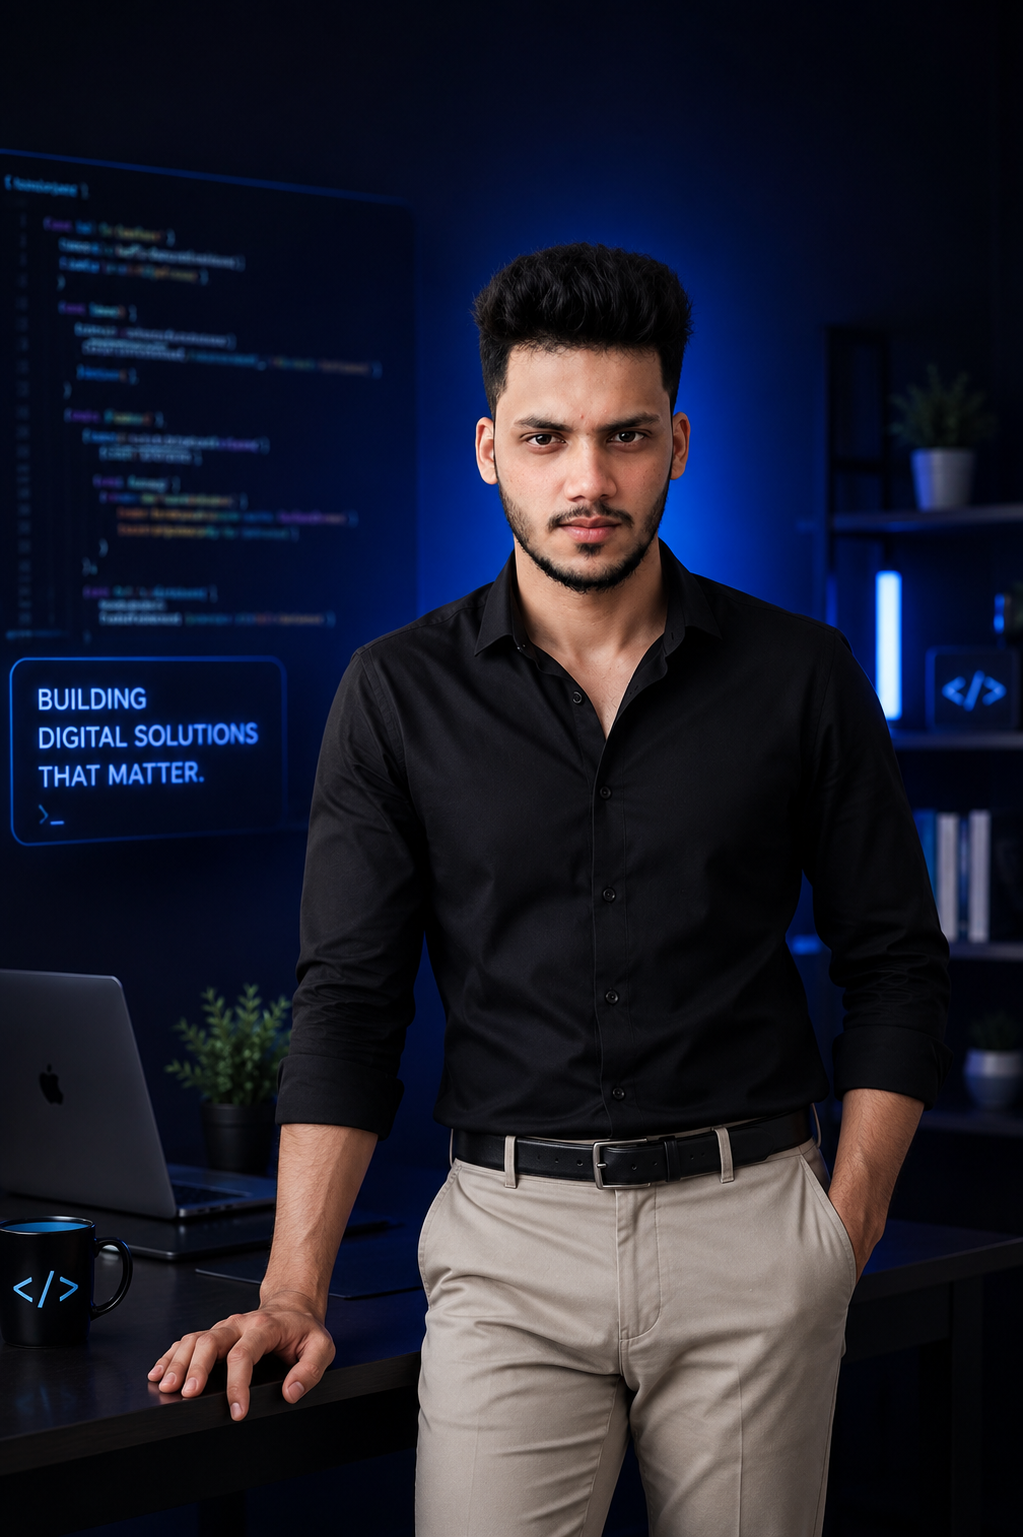
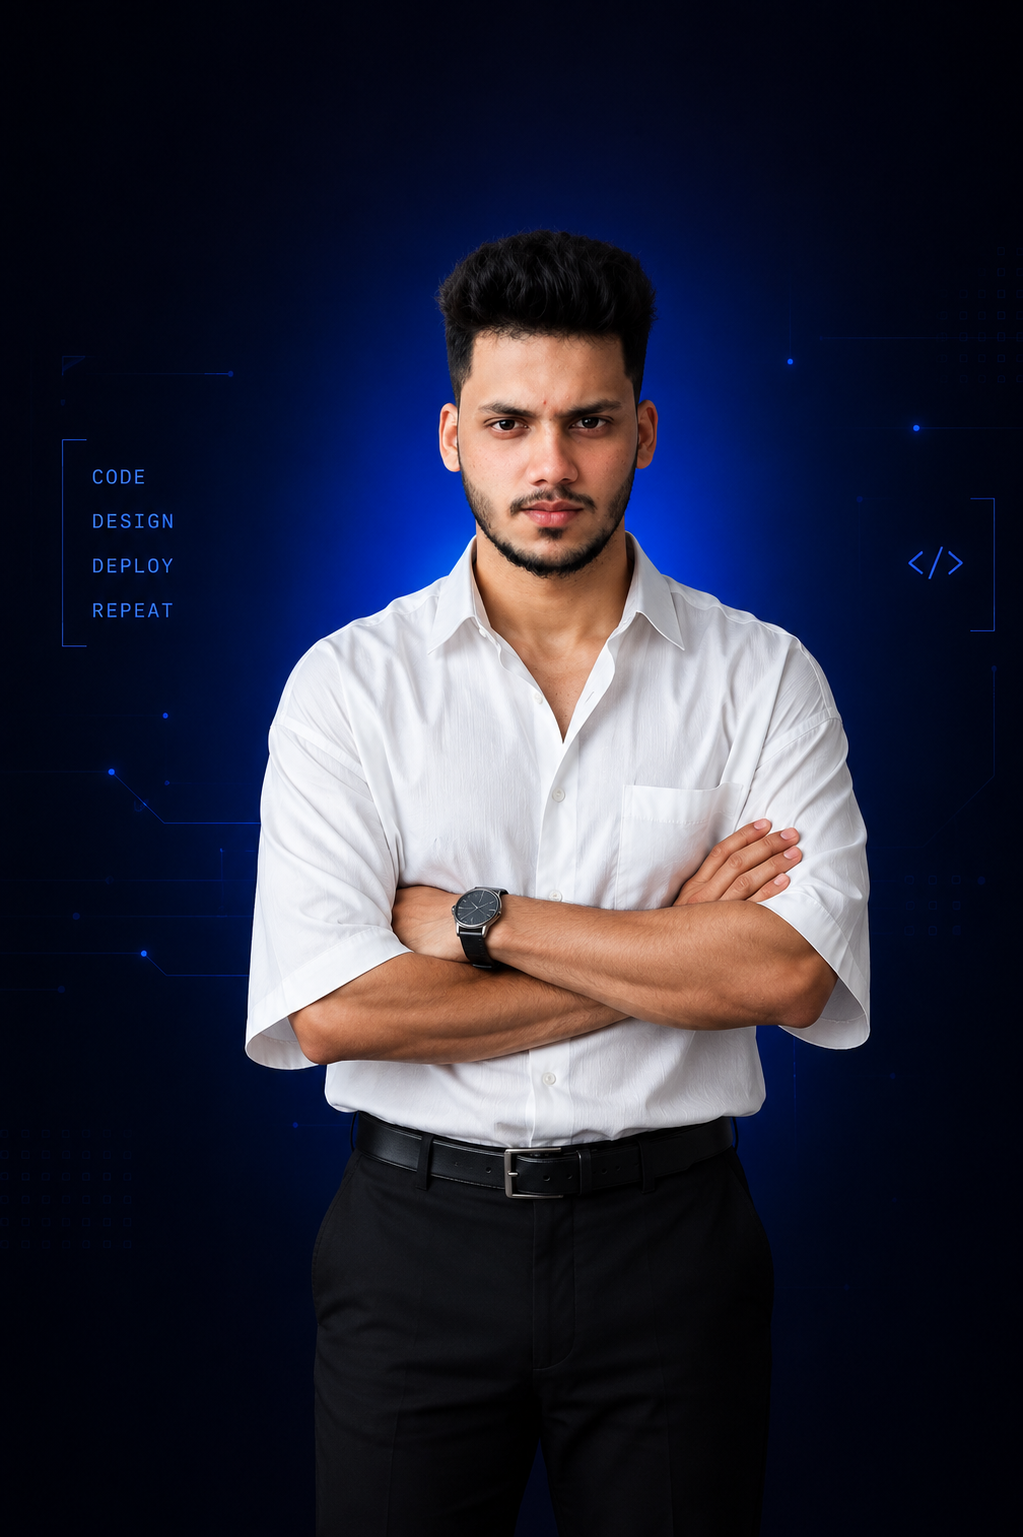
style: remove footer social links and make it compact and centered

diff --git a/client/src/components/Footer.tsx b/client/src/components/Footer.tsx
@@ -1,48 +1,12 @@
-import { Github, Linkedin, Mail, Instagram } from "lucide-react";
-
 export function Footer() {
   const currentYear = new Date().getFullYear();
 
   return (
-    <footer className="py-8 border-t border-white/5 bg-background/50 backdrop-blur-sm relative z-10">
-      <div className="container mx-auto px-6 flex flex-col md:flex-row justify-between items-center gap-4">
-        <p className="text-sm text-muted-foreground font-mono">
+    <footer className="py-6 border-t border-white/5 bg-background/50 backdrop-blur-sm relative z-10">
+      <div className="container mx-auto px-6 flex justify-center items-center">
+        <p className="text-xs md:text-sm text-muted-foreground/60 font-mono tracking-wider text-center">
           © {currentYear} Khwaja Iqyan Ali. All rights reserved.
         </p>
-        
-        <div className="flex items-center gap-6">
-          <span className="text-sm text-muted-foreground">Connect with me:</span>
-          <a
-            href="https://github.com/iqyanali17"
-            target="_blank"
-            rel="noopener noreferrer"
-            className="text-muted-foreground hover:text-primary transition-colors"
-          >
-            <Github size={28} />
-          </a>
-          <a
-            href="https://www.linkedin.com/in/iqyan-ali-17a/"
-            target="_blank"
-            rel="noopener noreferrer"
-            className="text-muted-foreground hover:text-primary transition-colors"
-          >
-            <Linkedin size={28} />
-          </a>
-          <a
-            href="https://www.instagram.com/_iq_.y._xn_?igsh=OXJ6MHF5ZHh2cWM1"
-            target="_blank"
-            rel="noopener noreferrer"
-            className="text-muted-foreground hover:text-primary transition-colors"
-          >
-            <Instagram size={28} />
-          </a>
-          <a
-            href="mailto:[email redacted]"
-            className="text-muted-foreground hover:text-primary transition-colors"
-          >
-            <Mail size={28} />
-          </a>
-        </div>
       </div>
     </footer>
   );

diff --git a/client/src/components/CustomCursor.tsx b/client/src/components/CustomCursor.tsx
@@ -927,17 +927,26 @@ export function CustomCursor() {
       <AnimatePresence>
         {cursorText && !isMobile && (
           <motion.div
-            initial={{ opacity: 0, scale: 0.8 }}
-            animate={{ opacity: 1, scale: 1 }}
-            exit={{ opacity: 0, scale: 0.8 }}
-            transition={{ duration: 0.15, ease: "easeOut" }}
-            className="fixed pointer-events-none z-[100000] px-3 py-1.5 rounded-xl bg-black/75 backdrop-blur-md border border-primary/45 text-white font-sans text-[10px] font-bold tracking-widest uppercase shadow-[0_0_15px_rgba(149,104,255,0.4)] whitespace-nowrap flex items-center gap-1.5"
+            initial={{ opacity: 0, scale: 0.8, y: 10 }}
+            animate={{ opacity: 1, scale: 1, y: 0 }}
+            exit={{ opacity: 0, scale: 0.8, y: 10 }}
+            transition={{ type: "spring", stiffness: 380, damping: 24 }}
+            className="fixed pointer-events-none z-[100000] px-3.5 py-2 rounded-xl bg-gradient-to-r from-[#0d0f17]/95 via-[#131130]/95 to-[#1a113d]/95 backdrop-blur-md border border-primary/50 text-white font-sans text-[10px] font-bold tracking-widest uppercase shadow-[0_0_25px_rgba(149,104,255,0.45),inset_0_1px_0_rgba(255,255,255,0.1)] whitespace-nowrap flex items-center gap-2"
             style={{
               left: mousePos.x + 20,
               top: mousePos.y + 20,
             }}
           >
-            <span>{cursorText}</span>
+            {/* Blinking active beacon dot */}
+            <span className="relative flex h-1.5 w-1.5">
+              <span className="animate-ping absolute inline-flex h-full w-full rounded-full bg-primary opacity-80"></span>
+              <span className="relative inline-flex rounded-full h-1.5 w-1.5 bg-primary shadow-[0_0_6px_hsl(var(--primary))]"></span>
+            </span>
+
+            {/* Glowing text */}
+            <span className="text-white drop-shadow-[0_0_5px_rgba(255,255,255,0.65)] font-display tracking-[0.15em]">
+              {cursorText}
+            </span>
           </motion.div>
         )}
       </AnimatePresence>